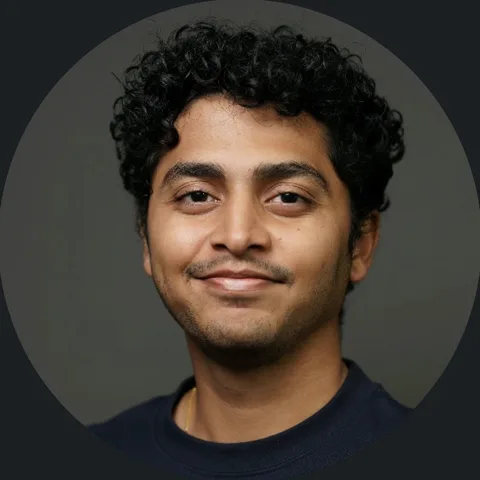
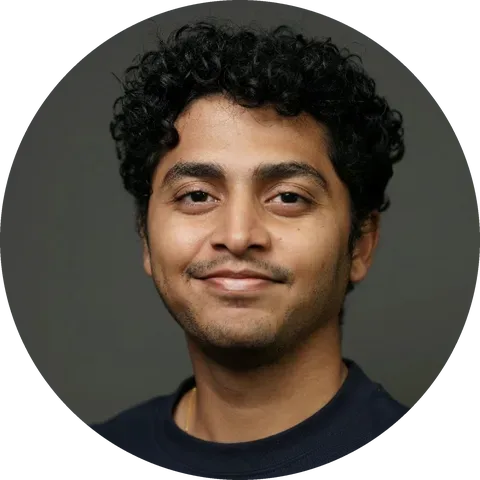
Circular founder photos baked into images; cache-bust CSS/JS

diff --git a/index.html b/index.html
@@ -19,8 +19,8 @@
   <link rel="preconnect" href="https://fonts.googleapis.com">
   <link rel="preconnect" href="https://fonts.gstatic.com" crossorigin>
   <link rel="stylesheet" href="https://fonts.googleapis.com/css2?family=Saira:wdth,wght@100..125,500..700&family=Geist:wght@400..600&family=Geist+Mono:wght@400;500&display=swap">
-  <link rel="stylesheet" href="styles.css">
-  <script src="site.js" defer></script>
+  <link rel="stylesheet" href="styles.css?v=2">
+  <script src="site.js?v=2" defer></script>
 </head>
 <body>
 <a class="skip" href="#main">Skip to content</a>
@@ -335,7 +335,7 @@
       </div>
       <div class="cells cells-3 team">
         <article class="person">
-          <img class="avatar" src="assets/rithwick.webp" width="96" height="96" alt="Rithwick Sethi" loading="lazy" decoding="async">
+          <img class="avatar" src="assets/rithwick.webp?v=2" width="96" height="96" alt="Rithwick Sethi" loading="lazy" decoding="async">
           <h3>Rithwick Sethi</h3>
           <p class="role mono">Co-founder · CEO</p>
           <ul class="ticks">
@@ -349,7 +349,7 @@
           <a class="tlink" href="https://www.linkedin.com/in/rithwicksethi" target="_blank" rel="noopener">LinkedIn ↗<span class="visually-hidden"> profile of Rithwick Sethi</span></a>
         </article>
         <article class="person">
-          <img class="avatar" src="assets/om.webp" width="96" height="96" alt="Om Kulkarni" loading="lazy" decoding="async">
+          <img class="avatar" src="assets/om.webp?v=2" width="96" height="96" alt="Om Kulkarni" loading="lazy" decoding="async">
           <h3>Om Kulkarni</h3>
           <p class="role mono">Co-founder · CTO</p>
           <ul class="ticks">
